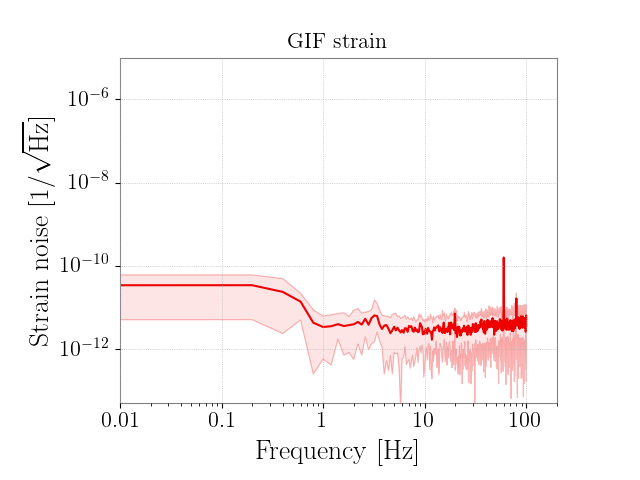
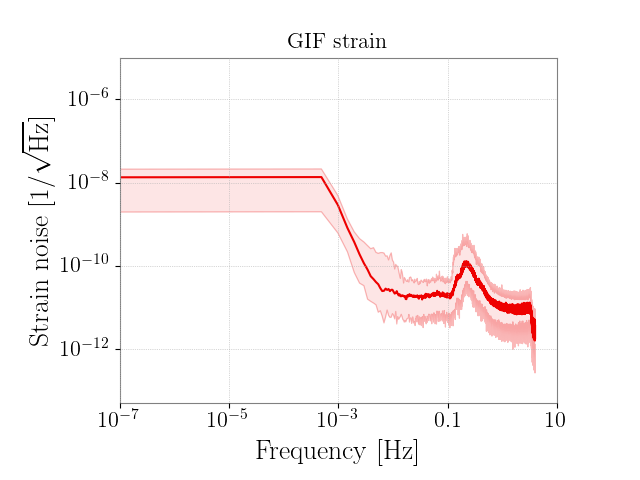
add testgwpy png files

diff --git a/testgwpy/main_gifstrain.py b/testgwpy/main_gifstrain.py
@@ -2,42 +2,56 @@
 #! coding:utf-8
 import sys
 sys.path.insert(0,'/Users/miyo/Dropbox/Git/gwpy/')
+sys.path.insert(0,'/Users/miyo/Dropbox/Git/miyopy/')
 
+from numpy import (array)
 from gwpy.timeseries import TimeSeries
 import gwpy
 
+from miyopy.gif import (GifData)
 
 if __name__=='__main__':
-    strain = TimeSeries.read(source='./1810140000.STRAIN',
[1 lines of base64/hex data omitted]
+
+    start = 1223478018
+    start = 1222441218
+    start = 1222786818 # 10/06 00:00:00 JST
+    tlen = 3600*24*3
+    chname = 'CALC_STRAIN'
+    files = GifData.findfiles(start,tlen,chname,
+                              prefix='/Users/miyo/Dropbox/KagraData/gif/')
+    print('Found files')
+    
+    strain = TimeSeries.read(source=files,
                              name='CALC_STRAIN',
-                             start=1223478018,
-                             format='gif')
-
-
+                             format='gif',
+                             nproc=2)
+    
     # plot timeseries
     plot = strain.plot(title='GIF strain data',
                        ylabel='Strain amplitude',
                        )
     plot.savefig('timeseries.png')
     plot.close()
-
+    print('plot timeseries.png')
     
     # plot spectrogram
-    stride = 10 # sec
-    fftlength = 5 # sec
+    stride = 2**12 # sec
+    fftlength = 2**11 # sec
     spectrogram = strain.spectrogram(stride=stride, fftlength=fftlength) ** (1/2.)
     plot = spectrogram.imshow(norm='log', vmin=5e-12, vmax=1e-10)
     ax = plot.gca()
     ax.set_yscale('log')
-    ax.set_ylim(0.01, 200)
+    ax.set_ylim(1e-3, 10)
     ax.colorbar(
         label=r'GIF strain amplitude [strain/$\sqrt{\mathrm{Hz}}$]')
+    plot.subplots_adjust(right=.86)
     plot.savefig('spectrogram.png')
     plot.close()
-
+    print('plot spectrogram.png')
     
     # plot asd
-    fftlength = 5
+    fftlength = 2**11
     overlap = 2
     sg = strain.spectrogram2(fftlength=fftlength,
                              overlap=overlap, window='hanning') ** (1/2.)
@@ -46,7 +60,7 @@ if __name__=='__main__':
     high = sg.percentile(95)
     from gwpy.plot import Plot
     plot = Plot()
-    ax = plot.gca(xscale='log', xlim=(0.01, 200), xlabel='Frequency [Hz]',
+    ax = plot.gca(xscale='log', xlim=(1e-7, 10), xlabel='Frequency [Hz]',
                 yscale='log', ylim=(5e-14, 1e-5),
                 ylabel=r'Strain noise [1/\rtHz]')
     ax.plot_mmm(median, low, high, color='gwpy:ligo-hanford')
@@ -54,3 +68,4 @@ if __name__=='__main__':
                 fontsize=16)
     plot.savefig('asd.png')
     plot.close()
+    print('plot asd.png')
